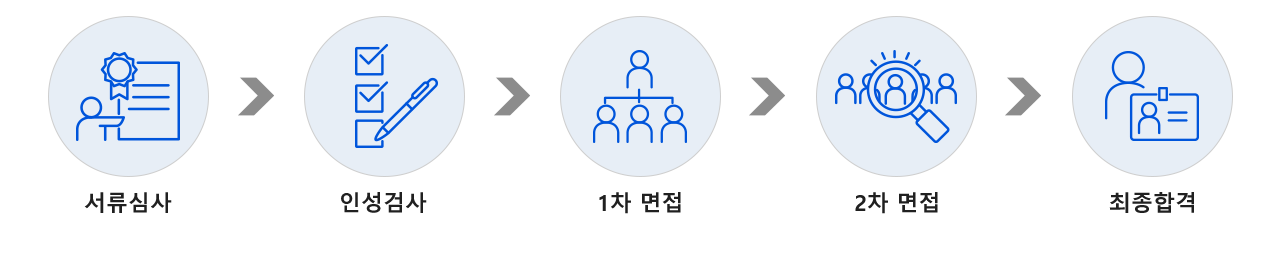
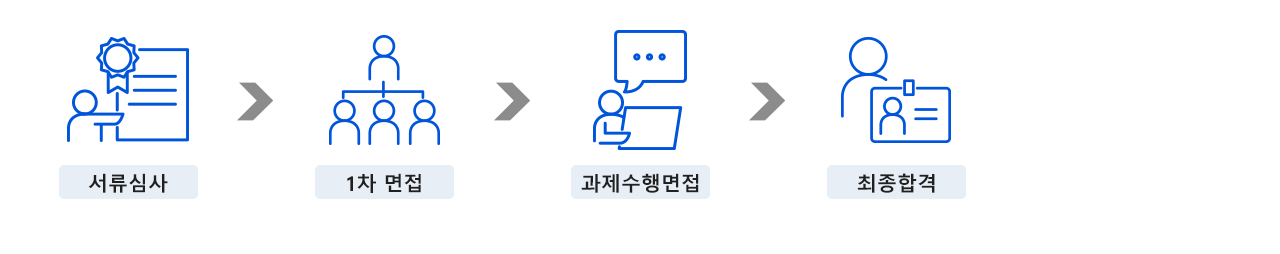
image update

diff --git a/office_info_renew.html b/office_info_renew.html
@@ -125,14 +125,7 @@
         <!-- 채용절차 -->
         <section id="process" class="general mt-5">
             <h2>채용절차</h2>
-            <h4 style="margin-top: 20px;">시안1</h4>
-            <img src="./assets/img/recruitment_process_2.png" alt="" srcset="">
-            <h4 style="margin-top: 20px;">시안2</h4>
             <img src="./assets/img/recruitment_process_3.png" alt="" srcset="">
-            <h4 style="margin-top: 20px;">시안3</h4>
-            <img src="./assets/img/recruitment_process_4.png" alt="" srcset="">
-            <h4 style="margin-top: 20px;">시안4</h4>
-            <img src="./assets/img/recruitment_process_5.png" alt="" srcset="">
         </section>
 
         <!-- 기업소개 -->
